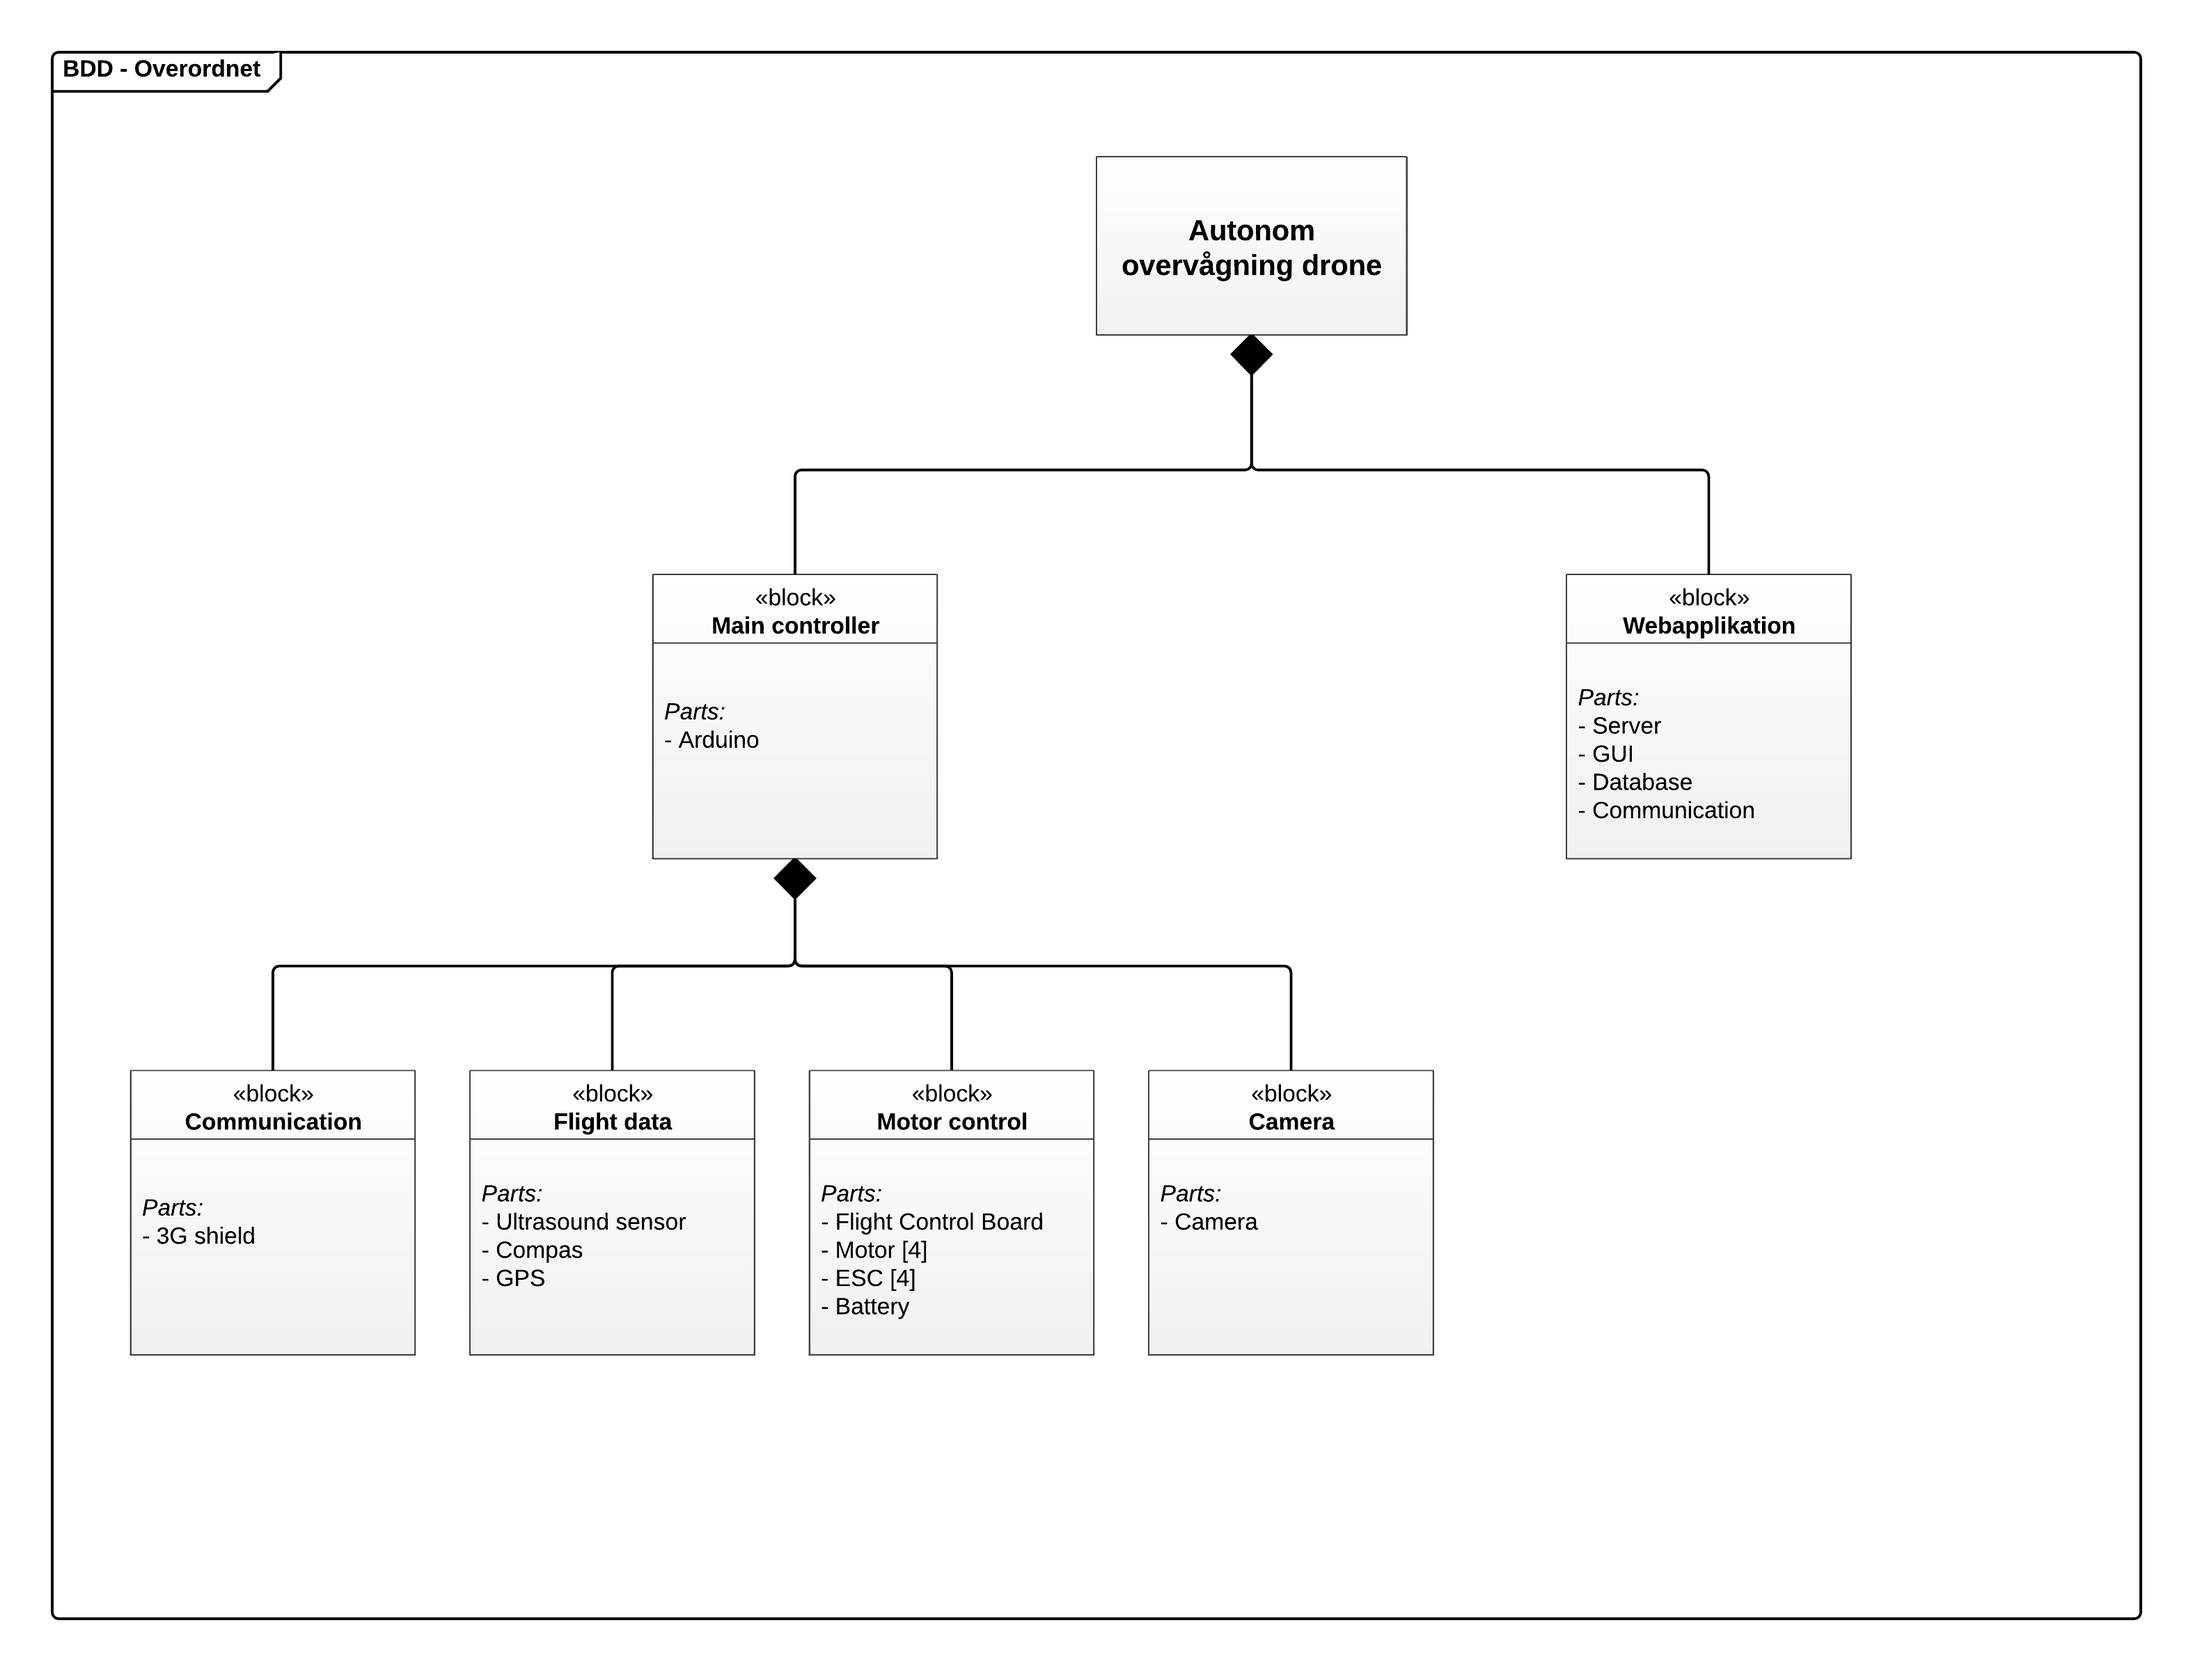
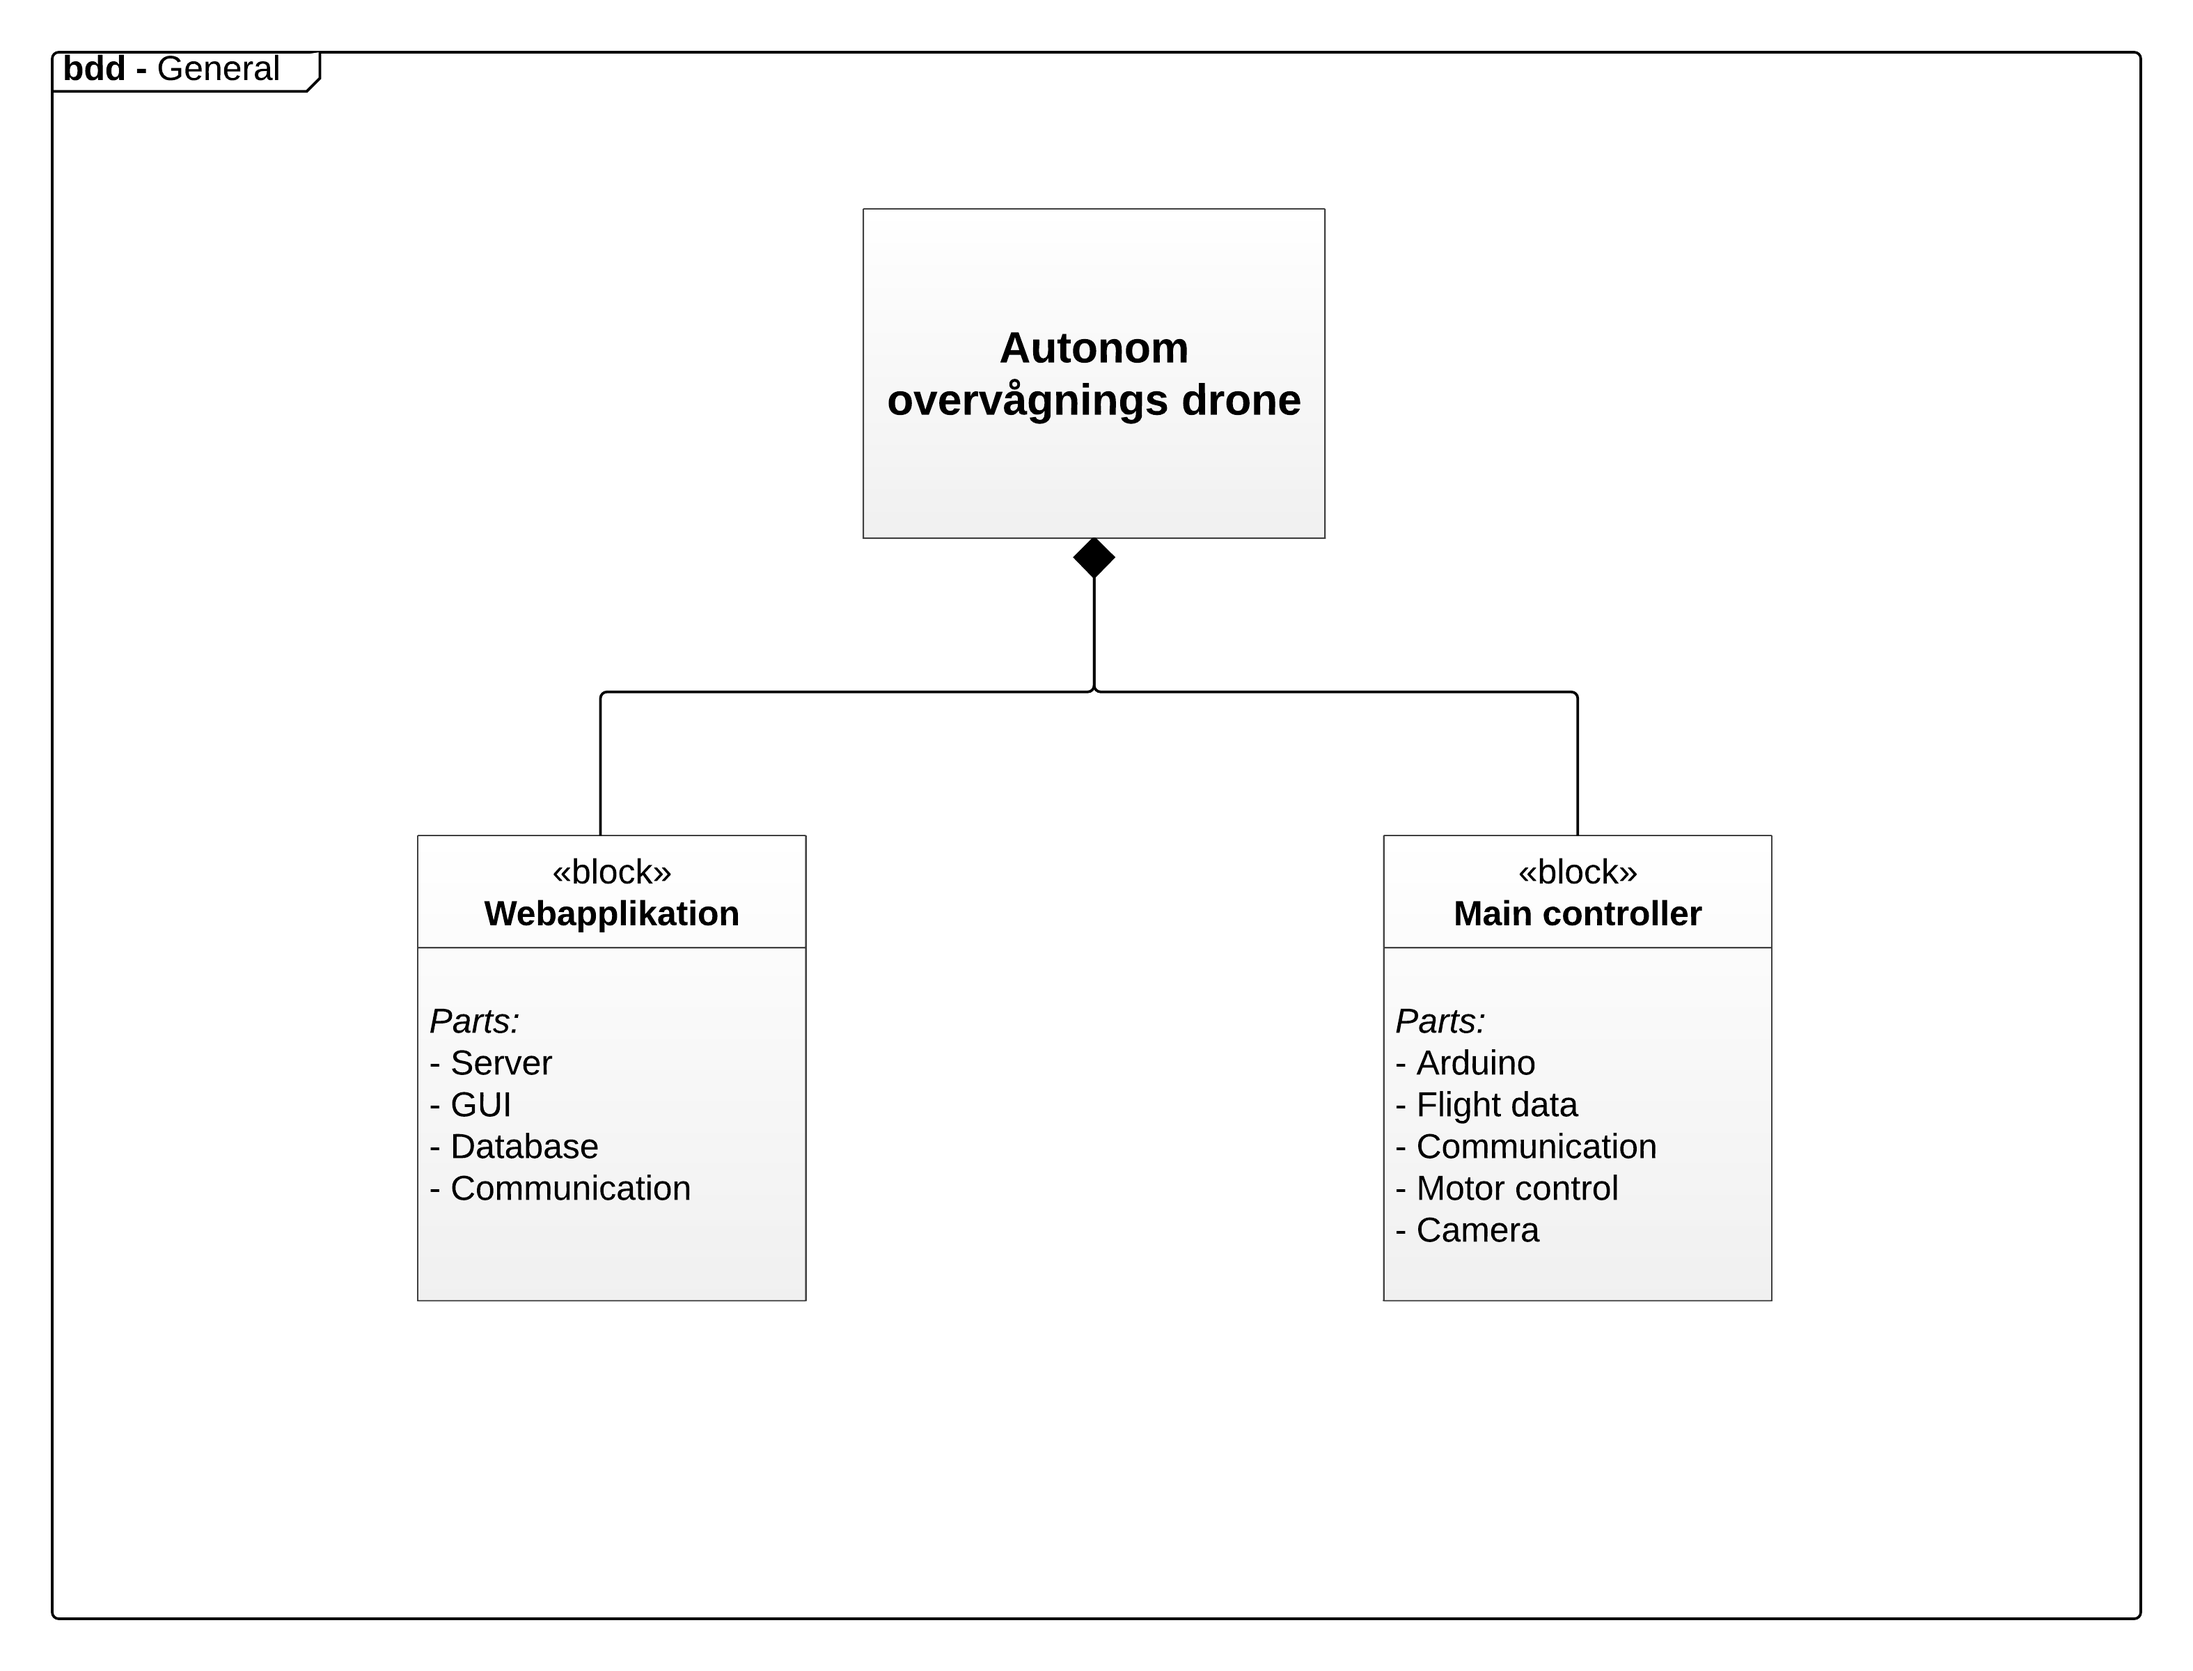
bdd og ibd tilføjet / opdateret.

diff --git a/5.Transition/Dokumentation/Systemarkitektur/Kapitler/Intro/Intro_side.tex b/5.Transition/Dokumentation/Systemarkitektur/Kapitler/Intro/Intro_side.tex
@@ -6,8 +6,8 @@
 		\begin{tabular}{|p{2 cm}|p{2 cm}|p{3 cm}|p{6 cm}|} 
 		\hline
 			\textbf{Rev. Nr} & \textbf{Dato}		& \textbf{Initialer} 	& \textbf{Ændring} \\ \hline
-			1.0 	& & & \\ \hline
-			1.1 	& & & 	\\ \hline
+			1.0 	& & &  \\ \hline
+			1.1 	& & &	\\ \hline
 		\end{tabular}
 	\caption{Revisionshistorik}
 	%\label{tab:TC1}
@@ -31,9 +31,3 @@
 \vspace{2cm}
 
 \section{Indledning}
-
-
-Dette dokument indeholder foranalyse til projektet \textit{Autonom overvågnings drone}. 
-Foranalysen udarbejdes for at få et overblik over projektets forskellige dele. 
-
-I foranalysen undersøges der hvad der kræves af software og hardware. Blandt andet undersøges forskellige hardware moduler, hvordan server kan sættes op, samt udviklingsmiljøer og udviklingsværktøjer. Foranalysen som helhed bruges til at dokumentere de valg og beslutninger der dannede grund for projektets indkøbsfase. 

diff --git a/5.Transition/Dokumentation/Systemarkitektur/Kapitler/BDD/BDD.tex b/5.Transition/Dokumentation/Systemarkitektur/Kapitler/BDD/BDD.tex
@@ -1,0 +1,27 @@
+\section{BDD}
+
+BDD\textunderscore generel er en beskrivelse af hele systemet, delt op i blokke.
+
+
+\begin{figure}[H]
+\centering
+\includegraphics[width=1\textwidth]{Billeder/BDD_overordnet}
+\caption{BDD - Generel}
+\label{fig:bdd_generel}
+\end{figure}
+
+Dette bdd er gået mere i dybden med Main controller blokken, og viser hvilke blokke den har.
+
+\begin{figure}[H]
+\centering
+\includegraphics[width=1\textwidth]{Billeder/BDD_Maincontroller}
+\caption{BDD - Main controller}
+\label{fig:bdd_maincontroller}
+\end{figure}
+
+\begin{figure}[H]
+\centering
+\includegraphics[width=1\textwidth]{Billeder/IBD/ibd_generel}
+\caption{BDD - Main controller}
+\label{fig:bdd_maincontroller}
+\end{figure}

diff --git a/5.Transition/Dokumentation/Systemarkitektur/Systemarkitektur.tex b/5.Transition/Dokumentation/Systemarkitektur/Systemarkitektur.tex
@@ -12,6 +12,8 @@
 
 \mainmatter														% Hovedindhold - nummereres fra side 1
 
+\include{Kapitler/Intro/Intro_side}
+\include{Kapitler/BDD/BDD}
 
 %%%% Kilder %%%%
 \begingroup
